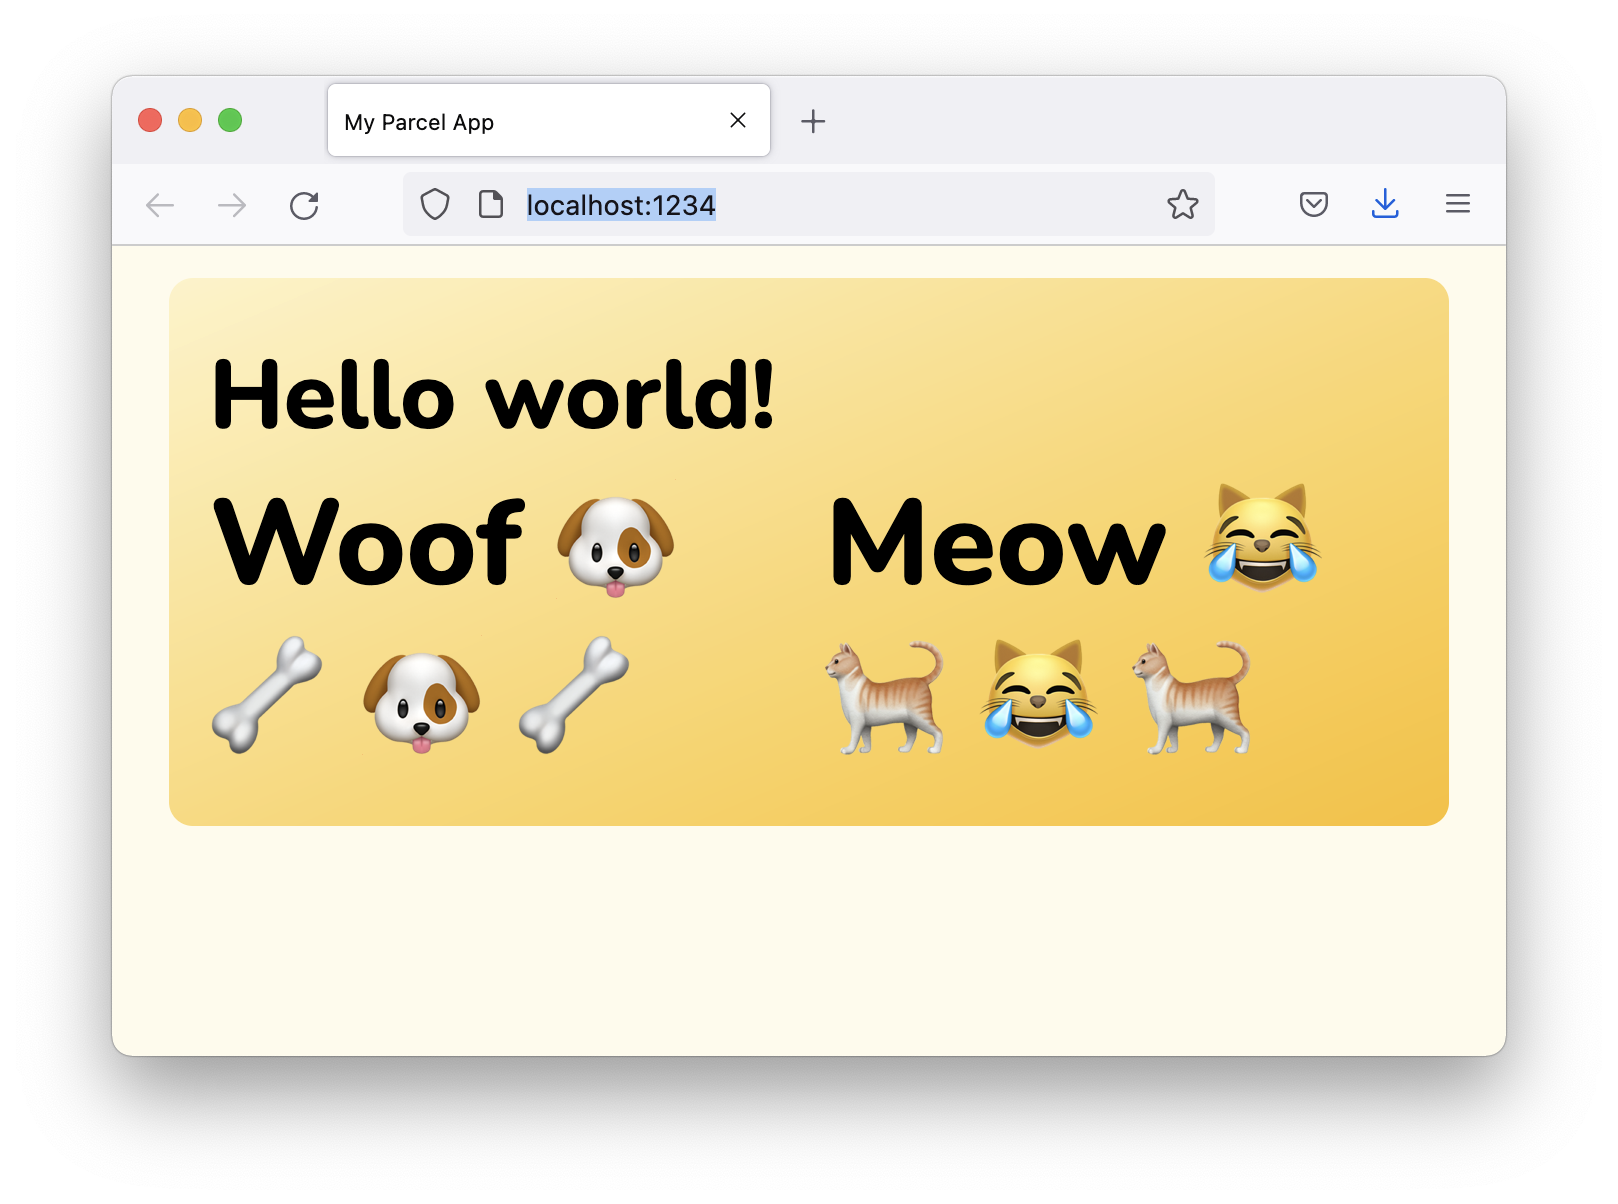
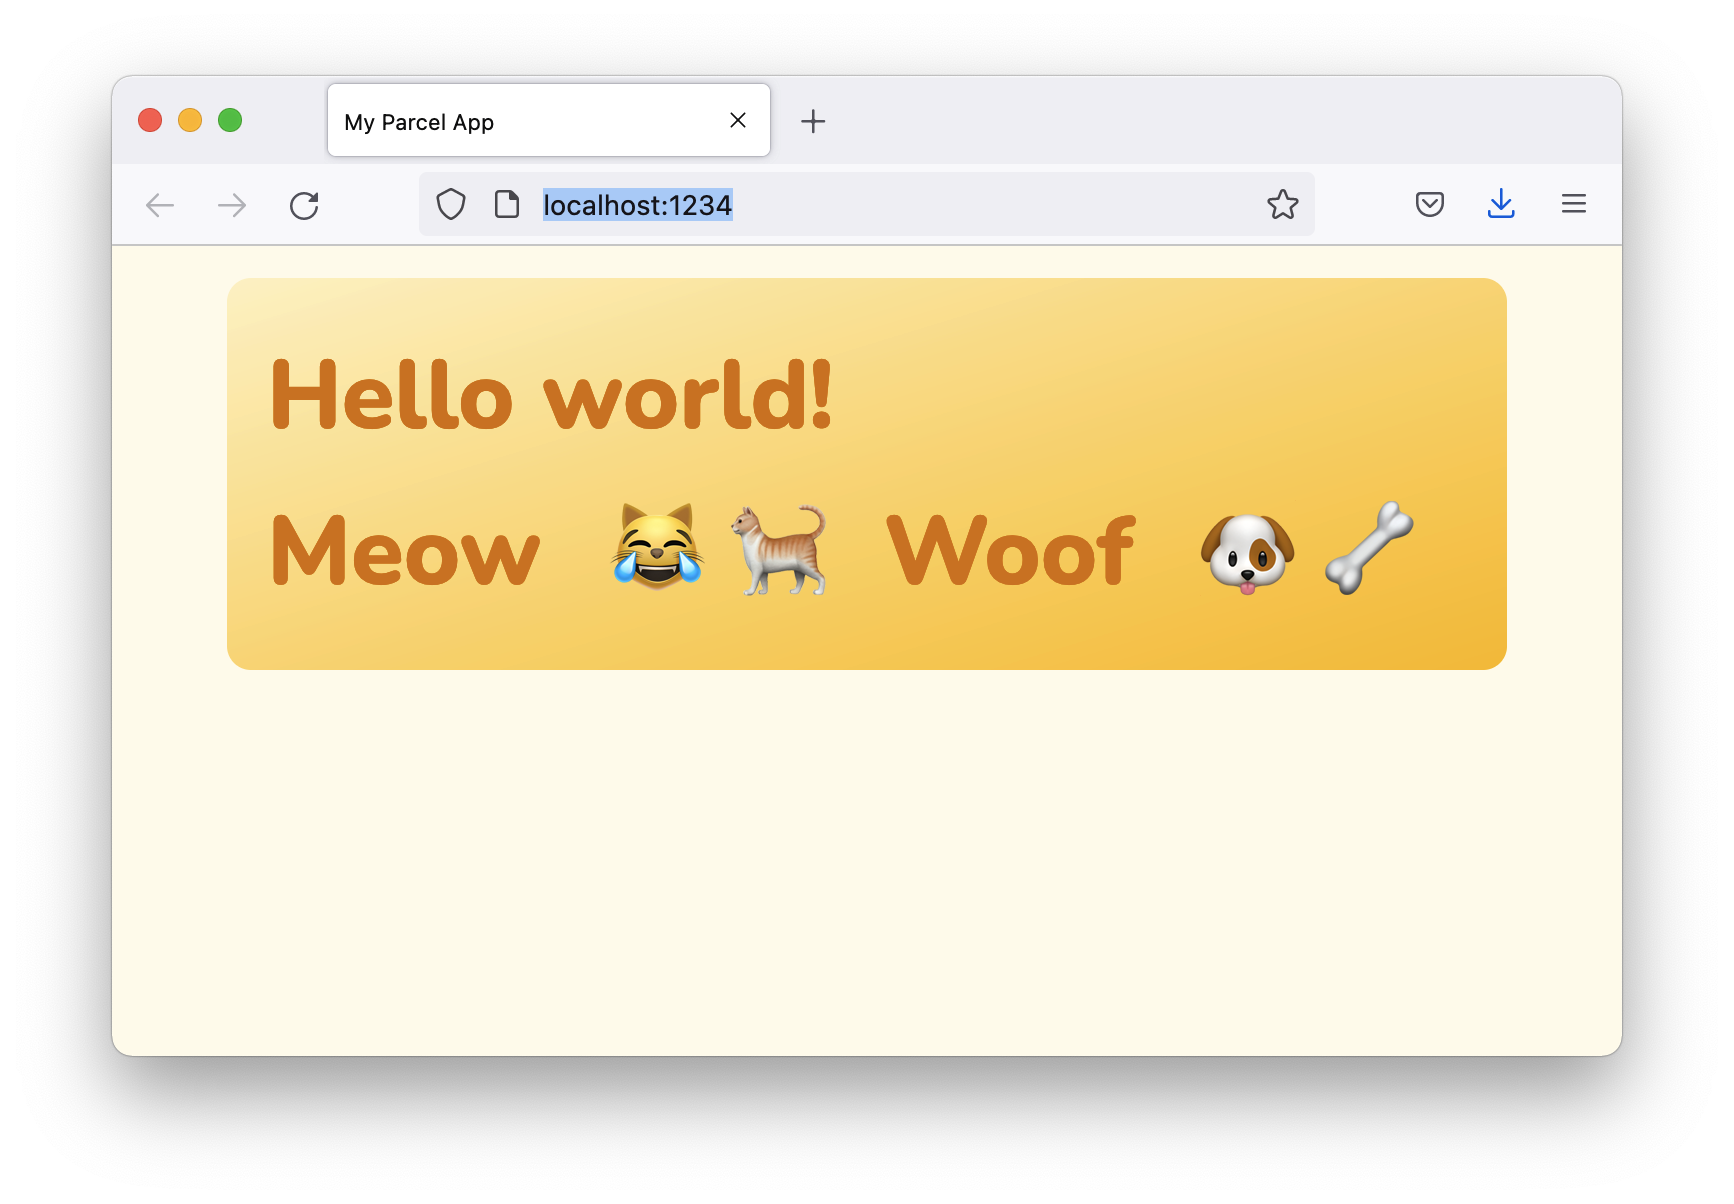
updating README

diff --git a/src/Slots.js b/src/Slots.js
@@ -2,10 +2,12 @@ export const Slots = ({left, right}) => {
   // to make react happy, switch to capitalize
   const Left = left
   const Right = right
+  // imagine the props being passed here are
+  // from some internal state inside of this component
   return (
   <div class="grid grid-cols-2 gap-4">
-    <div><Left text="meeew" /></div>
-    <div><Right text="wuff" /></div>
+    <div><Left text="Meow" /></div>
+    <div><Right text="Woof" /></div>
   </div>
 )}
 

diff --git a/src/App.js b/src/App.js
@@ -2,14 +2,15 @@ import { Cat } from './Cat'
 import { Dog } from './Dog'
 import { JustChildren } from './JustChildren'
 import { Wrapper } from './Wrapper';
+import { Slots } from './Slots'
 
 export function App() {
   return (
     <Wrapper>
       Hello world!
       <JustChildren>
-        <Dog />
         <Cat />
+        <Dog />
       </JustChildren>
     </Wrapper>
   )

diff --git a/src/Cat.js b/src/Cat.js
@@ -1,7 +1,7 @@
 export const Cat = ({className, text}) => (
-  <h2>
-    <span role="img" aria-label="Cat" className={`text-6xl ${className ? className : ''}`}>
-      {text} 😹 🐈 😹 🐈
+  <h2>{text}{'  '} 
+    <span role="img" aria-label="Cat" className={`ml-5 text-5xl ${className ? className : ''}`}>
+      😹 🐈
     </span>
   </h2>
 );

diff --git a/src/Dog.js b/src/Dog.js
@@ -1,7 +1,7 @@
 export const Dog = ({className, text}) => (
-  <h2>
-    <span role="img" aria-label="Dog" className={`text-6xl ${className ? className : ''}`}>
-      {text} 🐶 🦴 🐶 🦴
+  <h2>{text}{' '} 
+    <span role="img" aria-label="Dog" className={`ml-5 text-5xl ${className ? className : ''}`}>
+       🐶 🦴
     </span>
   </h2>
 );

diff --git a/README.md b/README.md
@@ -54,14 +54,14 @@ With components:
 ```jsx
 import { Cat } from './Cat'
 import { Dog } from './Dog'
-import { Slots } from './Slots';
 import { Wrapper } from './Wrapper';
+import { Slots } from './Slots'
 
 export function App() {
   return (
     <Wrapper>
       Hello world!
-      <Slots left={<Cat />} right={<Dog />} />
+      <Slots left={Cat} right={Dog} />
     </Wrapper>
   )
 }
@@ -89,3 +89,5 @@ export function App() {
   )
 }
 ```
+
+![just using React.Children.map example](./img/just_children.png)
